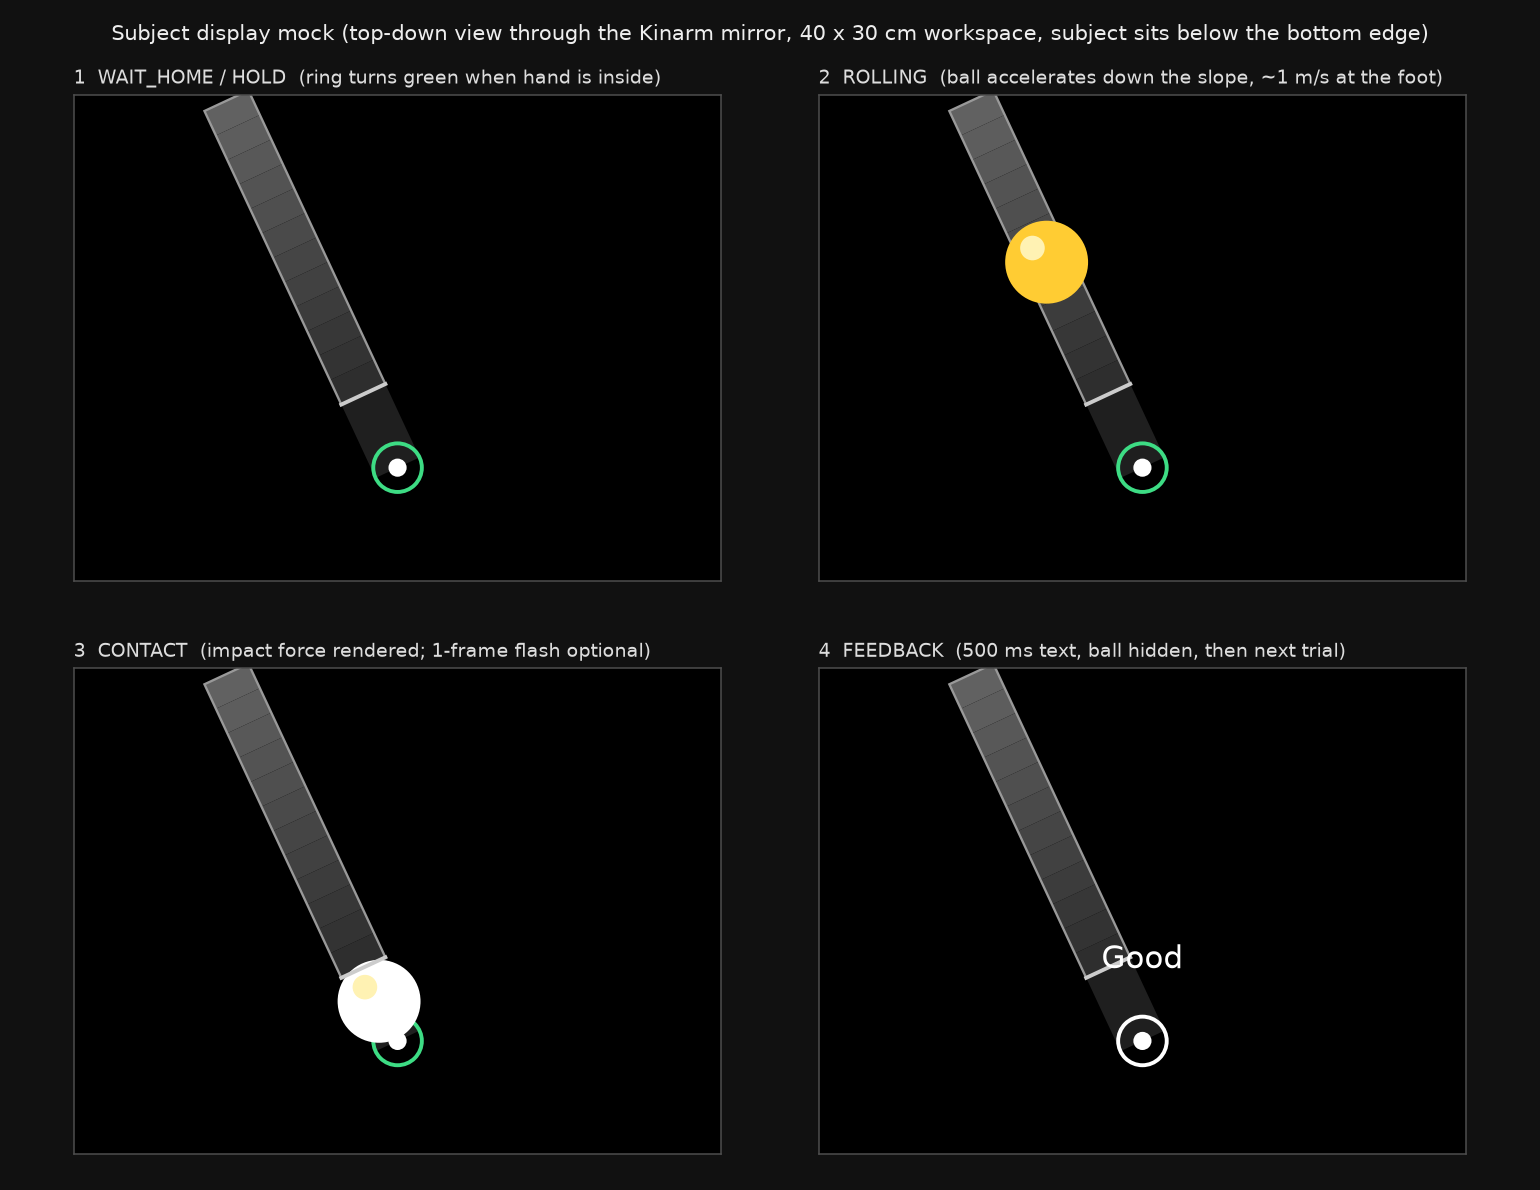
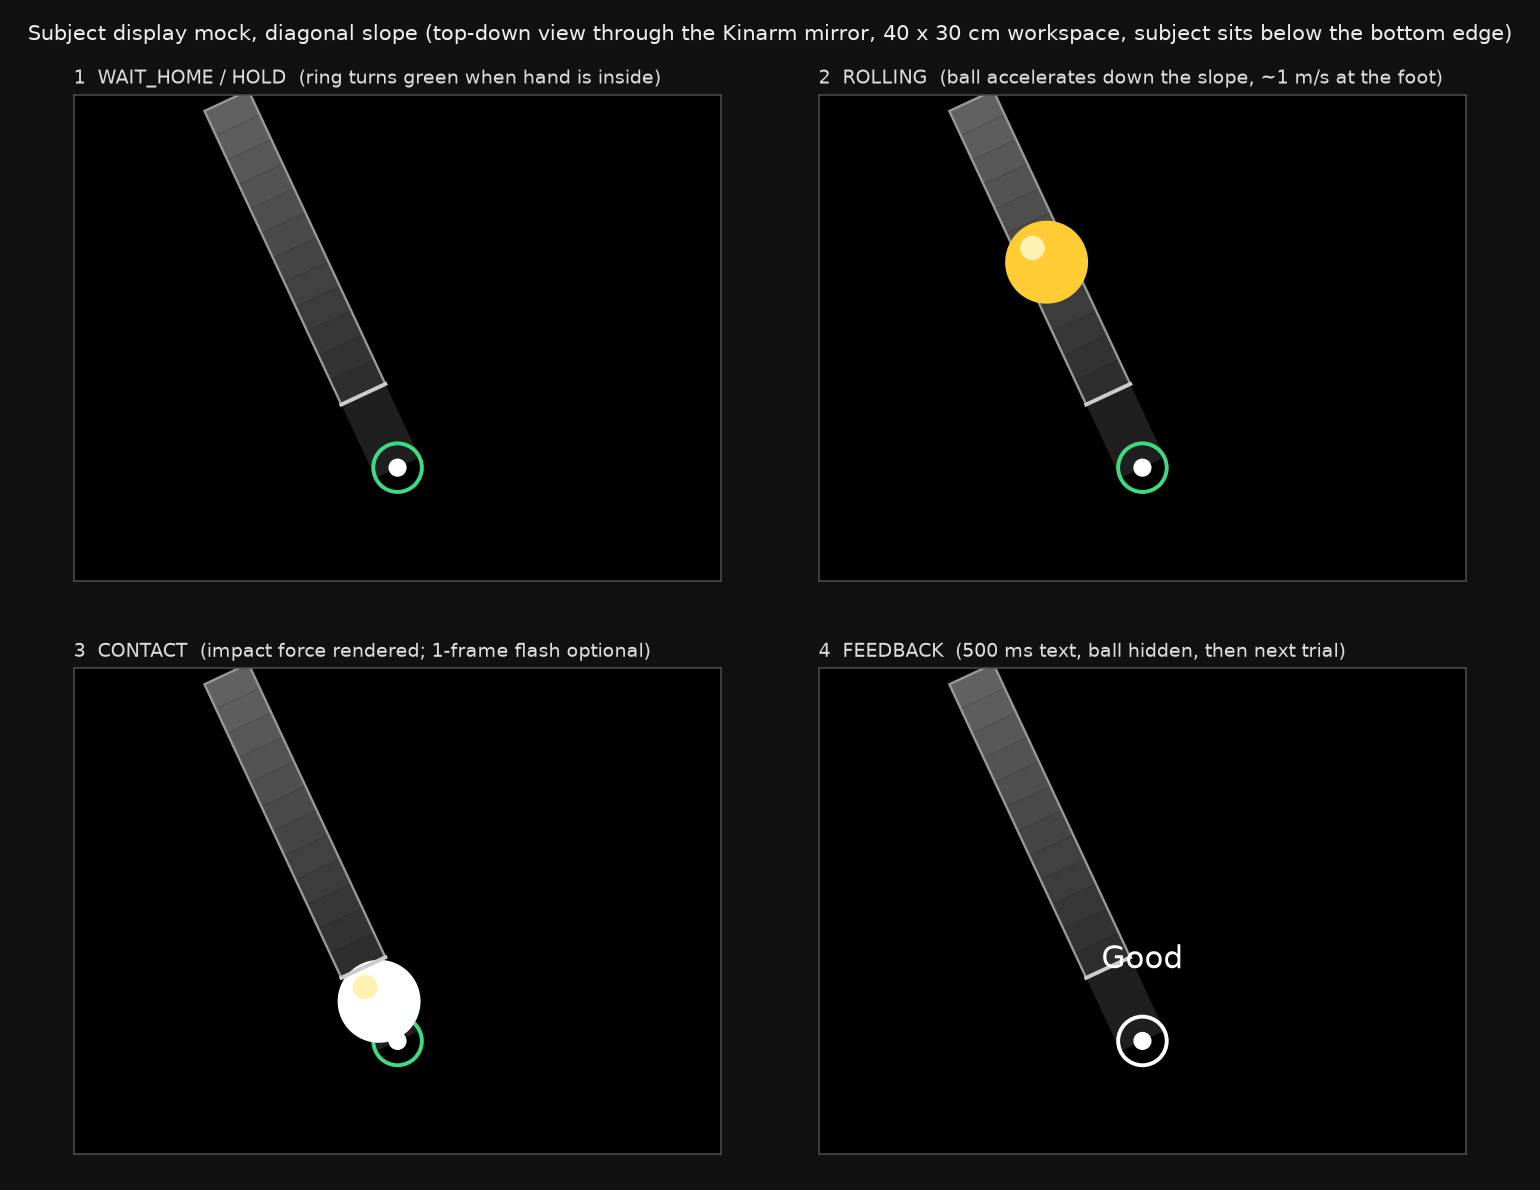
Add lateral slope orientation mock and hand-assignment open question
Mock renderer takes --orientation diagonal|lateral; display design records
the current leaning toward a right-to-left lateral slope. Hand choice rule
added to the experiment open questions.

Claude-Session: https://claude.ai/code/session_017jx8tduQhRD5Hceb7HMvmF

Changed region(s): [[0.0312, 0.0, 0.7169, 0.0311], [0.7481, 0.0, 0.9662, 0.0311]]

diff --git a/sim/mock_display.py b/sim/mock_display.py
@@ -3,6 +3,7 @@
 Output: docs/mockups/display_storyboard.png
 Run:    .venv/bin/python sim/mock_display.py
 """
+import argparse
 import math
 import os
 
@@ -13,8 +14,16 @@ from matplotlib.patches import Circle, Polygon
 
 # workspace (cm), origin at Kinarm centre, x right, y away from subject
 XLIM, YLIM = (-20, 20), (-15, 15)
-HOME = (0.0, -8.0)
-ANG = math.radians(25)                     # slope tilt from +y toward -x
+_ap = argparse.ArgumentParser()
+_ap.add_argument("--orientation", choices=["diagonal", "lateral"], default="diagonal",
+                 help="diagonal: ball from upper-left toward the body; lateral: ball from the right, travelling left")
+ORIENT = _ap.parse_args().orientation
+if ORIENT == "diagonal":
+    HOME = (0.0, -8.0)
+    ANG = math.radians(25)                 # slope tilt from +y toward -x
+else:
+    HOME = (-8.0, -6.0)                    # hand left of centre so the 25 cm path fits to the right
+    ANG = math.radians(-90)                # slope runs along +x: ball starts at the right
 U = (-math.sin(ANG), math.cos(ANG))        # unit vector up the slope from home
 L_FLAT, L_SLOPE, STRIP_W = 5.0, 20.0, 3.0
 R_BALL, R_HOME, R_CURSOR = 2.5, 1.5, 0.5
@@ -75,8 +84,9 @@ ax = axes[1, 1]; draw_static(ax, "white"); ax.text(HOME[0], HOME[1] + 5, "Good",
 
 for ax, t in zip(axes.flat, titles):
     ax.set_title(t, color="#ddd", fontsize=10, loc="left", pad=6)
-fig.suptitle("Subject display mock (top-down view through the Kinarm mirror, 40 x 30 cm workspace, subject sits below the bottom edge)",
+fig.suptitle(f"Subject display mock, {ORIENT} slope (top-down view through the Kinarm mirror, 40 x 30 cm workspace, subject sits below the bottom edge)",
              color="#eee", fontsize=11)
-out = os.path.join(os.path.dirname(__file__), "..", "docs", "mockups", "display_storyboard.png")
+suffix = "" if ORIENT == "diagonal" else "_lateral"
+out = os.path.join(os.path.dirname(__file__), "..", "docs", "mockups", f"display_storyboard{suffix}.png")
 fig.savefig(out, dpi=140, facecolor=fig.get_facecolor())
 print("wrote", os.path.abspath(out))

diff --git a/docs/display-design.md b/docs/display-design.md
@@ -42,6 +42,18 @@ the visible area before the trial ends.
    +---------------------------------------+ -> x
 ```
 
+Orientation is undecided. The user's current leaning (2026-11-20) is a **lateral** slope
+running right to left across the front of the subject, so the ball strikes the hand on
+its side (`docs/mockups/display_storyboard_lateral.png`). The diagonal layout below is
+the alternative (`docs/mockups/display_storyboard.png`). Render either with
+`sim/mock_display.py --orientation lateral|diagonal`.
+
+Lateral notes: the impact is across the forearm, the arm's low-stiffness direction, so
+hand displacement is larger for the same ball; the right hand is struck on its outer
+side and the left hand on its inner side unless the direction is mirrored per hand;
+home sits ~8 cm left of centre so the 25 cm path fits; "downhill" is conveyed only by
+the strip's brightness gradient, since a horizontal strip has no implied tilt top-down.
+
 Rationale for a diagonal, not straight-at-the-body, approach: the impact force then has
 components the arm can absorb at the elbow and shoulder, and a diagonal keeps the ball's
 whole path inside the display. Mirror the direction across subjects or blocks if

diff --git a/docs/experiment-design.md b/docs/experiment-design.md
@@ -147,3 +147,7 @@ response, EMG onset relative to CONTACT_START if EMG is recorded.
 3. Must the hand stay still until impact, or may the subject catch or dodge?
 4. Is EMG or eye tracking recorded? This affects the analog input table.
 5. Does the ball bounce back up the slope after impact (full physics) or stop?
+6. Which hand, and who decides: subject's choice, dominant hand assigned by the
+   experimenter, or both hands in counterbalanced blocks? The task will take a `hand`
+   parameter and mirrored Left/Right protocols either way; geometry mirrors across the
+   midline with the home position ~8 cm to the chosen side.
